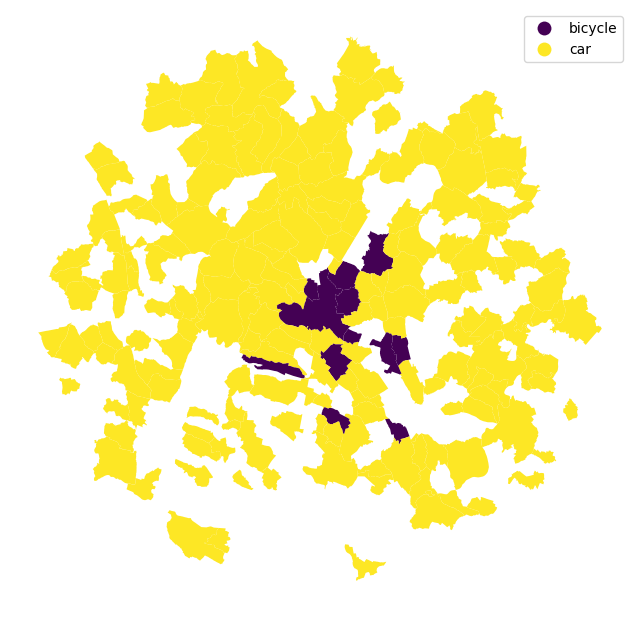
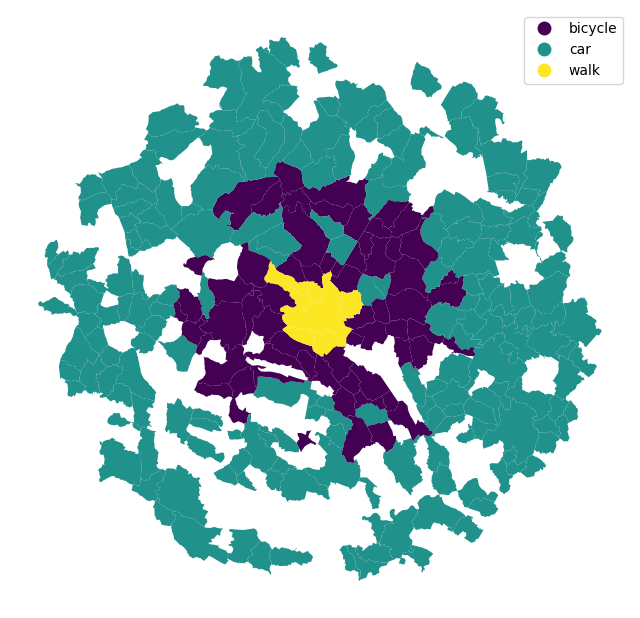
Bullshit2.png

diff --git a/WebAppMobility/sim.py b/WebAppMobility/sim.py
@@ -26,20 +26,28 @@ def compute_by_radius(local_admin_unit_id, radius):
     car = mobility.CarMode(
         transport_zones=transport_zones,
         generalized_cost_parameters=mobility.GeneralizedCostParameters(
-            cost_of_distance=0.8
+            cost_of_distance=6
         )
     )
     
     bicycle = mobility.BicycleMode(
         transport_zones=transport_zones,
         generalized_cost_parameters=mobility.GeneralizedCostParameters(
-            cost_of_distance=0.0
+            cost_of_distance=5
+        )
+    )
+    
+    walk = mobility.WalkMode(
+        transport_zones=transport_zones,
+        generalized_cost_parameters=mobility.GeneralizedCostParameters(
+            cost_of_distance=-1
         )
     )
     
     modes = [
         car,
-        bicycle
+        bicycle,
+        walk
     ]
     
     # -----------------------------------------------------------------------------
@@ -80,9 +88,13 @@ def compute_by_radius(local_admin_unit_id, radius):
     bicycle_travel_costs = bicycle.travel_costs.get()
     bicycle_travel_costs["mode"] = "bicycle"
     
+    walk_travel_costs = bicycle.travel_costs.get()
+    walk_travel_costs["mode"] = "walk"
+    
     travel_costs = pd.concat([
         car_travel_costs,
-        bicycle_travel_costs]
+        bicycle_travel_costs,
+        walk_travel_costs]
     )
     
     
@@ -91,7 +103,7 @@ def compute_by_radius(local_admin_unit_id, radius):
     print('Sample trips -----------------------------')
     population = mobility.Population(
         transport_zones=transport_zones,
-        sample_size=1000
+        sample_size=2000
     )
     
     print('Raw trips')
@@ -115,18 +127,19 @@ def compute_by_radius(local_admin_unit_id, radius):
 
     print('Traitement de dataframe ---------------------------')
     clean_loc_trip = df_loc_trips.dropna()
-    
+    print('A')
     local_id = tz.loc[tz["local_admin_unit_id"] == local_admin_unit_id, "transport_zone_id"].values[0]
     
+    print("B")
     id_from_selected = clean_loc_trip.loc[clean_loc_trip["from_transport_zone_id"] == local_id, ["to_transport_zone_id", "mode_id"]]
     
-    
+    print("C")
     df_grouped_by_zone = id_from_selected.value_counts().reset_index(name='Count')
-    
+    print("D")
     df_with_geometry = df_grouped_by_zone.merge(tz[['local_admin_unit_id', 'transport_zone_id', 'geometry']], left_on='to_transport_zone_id', right_on='transport_zone_id', how='left')
     df_with_geometry.reset_index(drop=True)
     
-    
+    print("E")
     df_mode_max = df_with_geometry.loc[df_with_geometry.groupby('transport_zone_id')['Count'].idxmax()]
     
     

diff --git a/WebAppMobility/app.py b/WebAppMobility/app.py
@@ -211,7 +211,7 @@ def start_sim(n_clicks, current_tab,
                 return "Please input a radius between 7 and 20"
             
             else :
-                # local_admin_unit_id = 'fr-' + df_municipality.loc[df_municipality['NOM_COM'] == input_radius_municipality]['INSEE_COM'].values[0]
+                local_admin_unit_id = 'fr-' + df_municipality.loc[df_municipality['NOM_COM'] == input_radius_municipality]['INSEE_COM'].values[0]
             
             
                 # print('BBBBBBBBBBBBBBBBBB')
